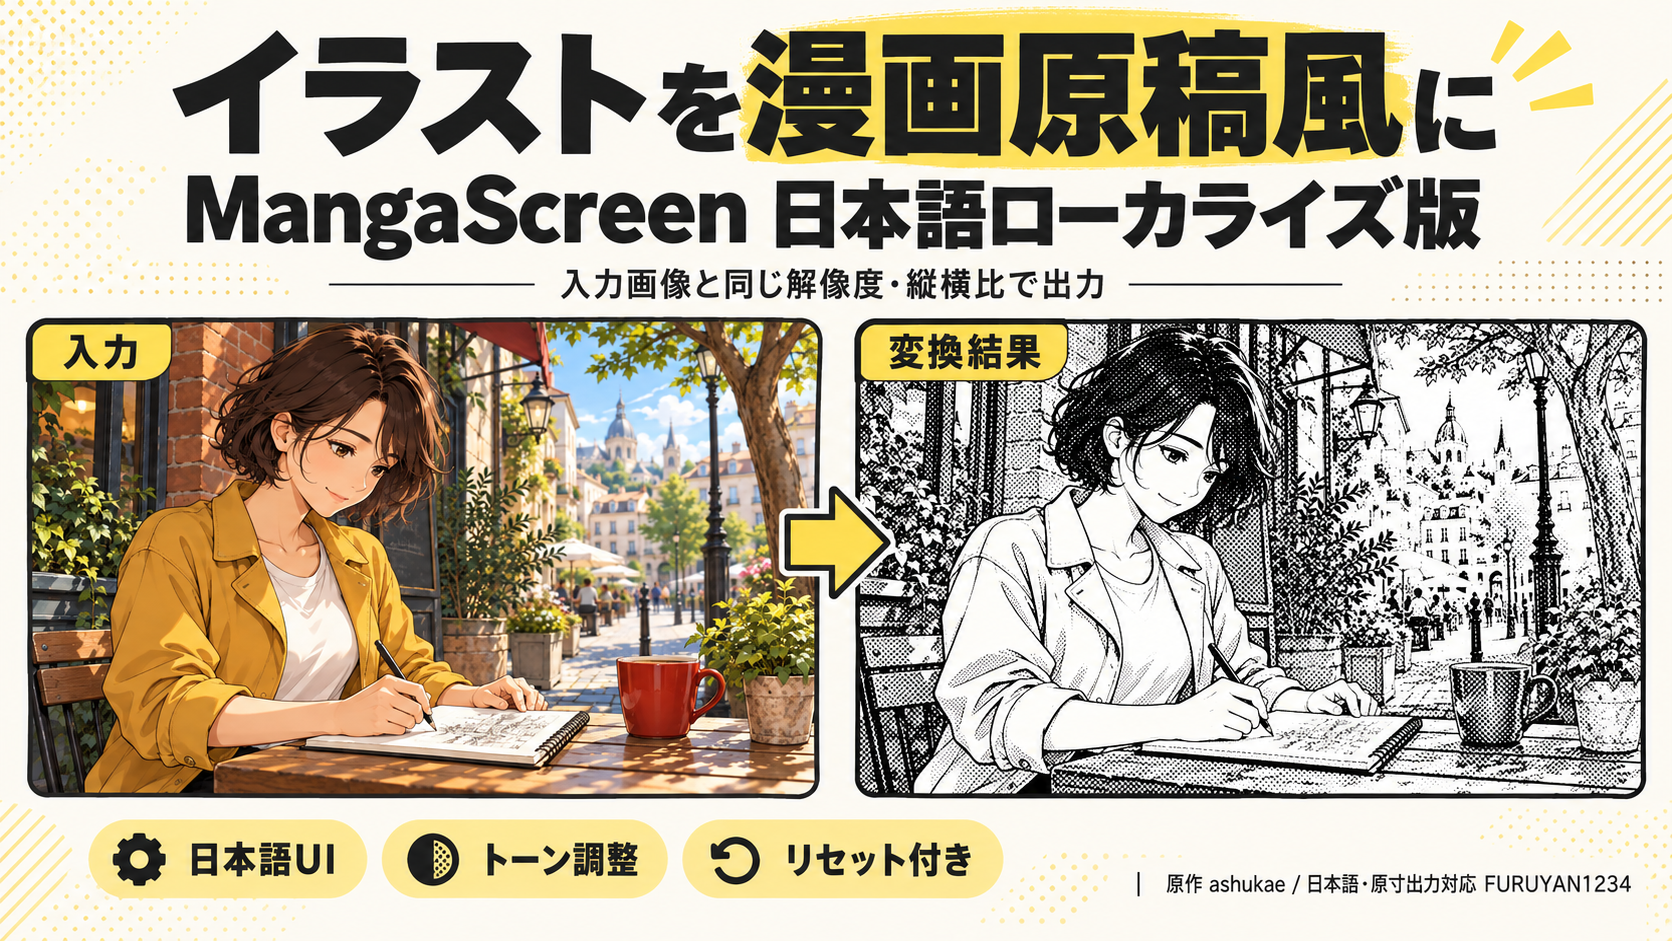
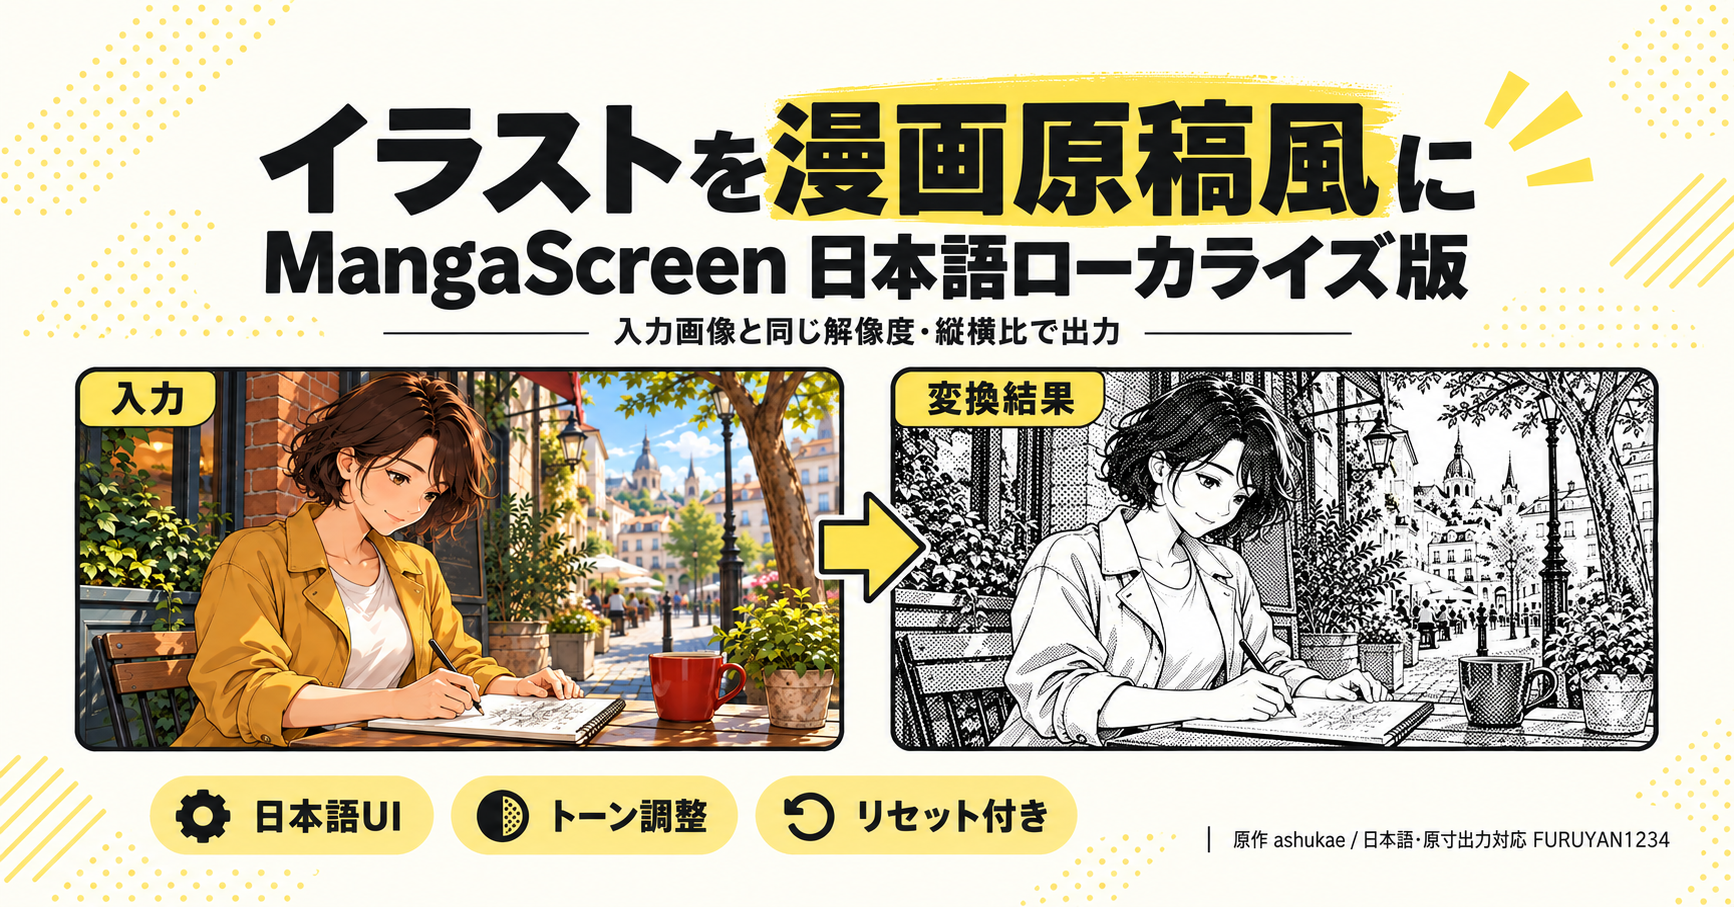
Publish note article links and fix note cover aspect ratio and text margins

diff --git a/docs/note.md b/docs/note.md
@@ -1,6 +1,6 @@
 # イラストを漫画原稿風に。MangaScreenを日本語化し、入力画像のサイズで出力できるようにしました
 
-![MangaScreen 日本語ローカライズ版](https://raw.githubusercontent.com/FURUYAN1234/ComfyUI-MangaScreen-JP/20261020171819/assets/thumbnail.png)
+![MangaScreen 日本語ローカライズ版](https://raw.githubusercontent.com/FURUYAN1234/ComfyUI-MangaScreen-JP/20261020174738/assets/thumbnail.png)
 
 カラーイラストを、線画・黒ベタ・スクリーントーンを使った漫画原稿風の画像に変換するComfyUIワークフローを公開しました。
 
@@ -14,23 +14,23 @@ GitHub：
 https://github.com/FURUYAN1234/ComfyUI-MangaScreen-JP
 
 配布ZIP・リリース：
-https://github.com/FURUYAN1234/ComfyUI-MangaScreen-JP/releases/tag/20261020171819
+https://github.com/FURUYAN1234/ComfyUI-MangaScreen-JP/releases/latest
 
 モデルの重みは同梱していません。導入手順と各モデルの入手先はREADMEにもまとめています。
 
 ## ワークフローと変換結果
 
-![ワークフロー全体](https://raw.githubusercontent.com/FURUYAN1234/ComfyUI-MangaScreen-JP/20261020171819/assets/workflow.jpg)
+![ワークフロー全体](https://raw.githubusercontent.com/FURUYAN1234/ComfyUI-MangaScreen-JP/20261020174738/assets/workflow.jpg)
 
 処理の流れは「入力画像 → Qwen-Image 2.1 Turboで漫画風に編集 → 入力画像の幅・高さへ復元 → 線画・トーンの仕上げ → PNG保存」です。
 
 内部のAI処理は約2MPで行い、スクリーントーンを描く前に入力画像の寸法へ戻します。最後にトーンを引き伸ばす方式を避け、原寸で網点を作る構成です。
 
 入力画像：
-![入力画像・1536×1024](https://raw.githubusercontent.com/FURUYAN1234/ComfyUI-MangaScreen-JP/20261020171819/assets/original.png)
+![入力画像・1536×1024](https://raw.githubusercontent.com/FURUYAN1234/ComfyUI-MangaScreen-JP/20261020174738/assets/original.png)
 
 実際の変換結果：
-![変換結果・1536×1024](https://raw.githubusercontent.com/FURUYAN1234/ComfyUI-MangaScreen-JP/20261020171819/assets/result.png)
+![変換結果・1536×1024](https://raw.githubusercontent.com/FURUYAN1234/ComfyUI-MangaScreen-JP/20261020174738/assets/result.png)
 
 この作例の入力は、公開用に今回新しくAI生成した画像です。変換結果は配布するワークフローの実出力です。サムネイルは紹介用に構成した画像なので、画質は上の実出力PNGで確認してください。
 
@@ -99,7 +99,7 @@ README・ワークフロー・作例：
 https://github.com/FURUYAN1234/ComfyUI-MangaScreen-JP
 
 現在の配布版：
-https://github.com/FURUYAN1234/ComfyUI-MangaScreen-JP/releases/tag/20261020171819
+https://github.com/FURUYAN1234/ComfyUI-MangaScreen-JP/releases/latest
 
 原作MangaScreen：
 https://github.com/ashukae/ComfyUI-MangaScreen
